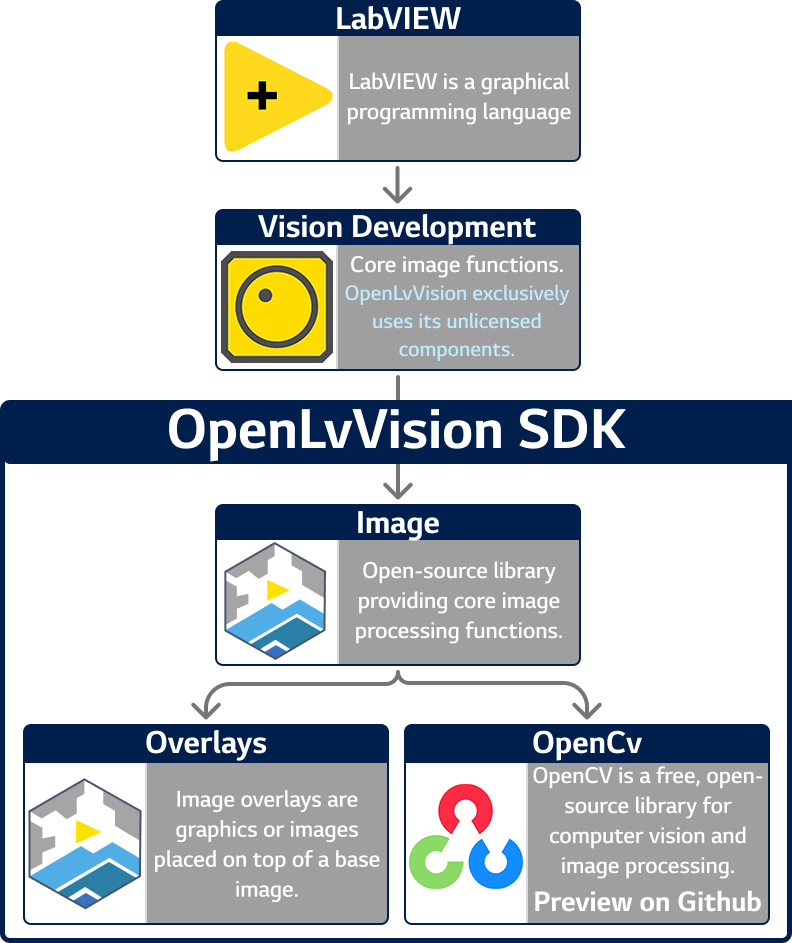
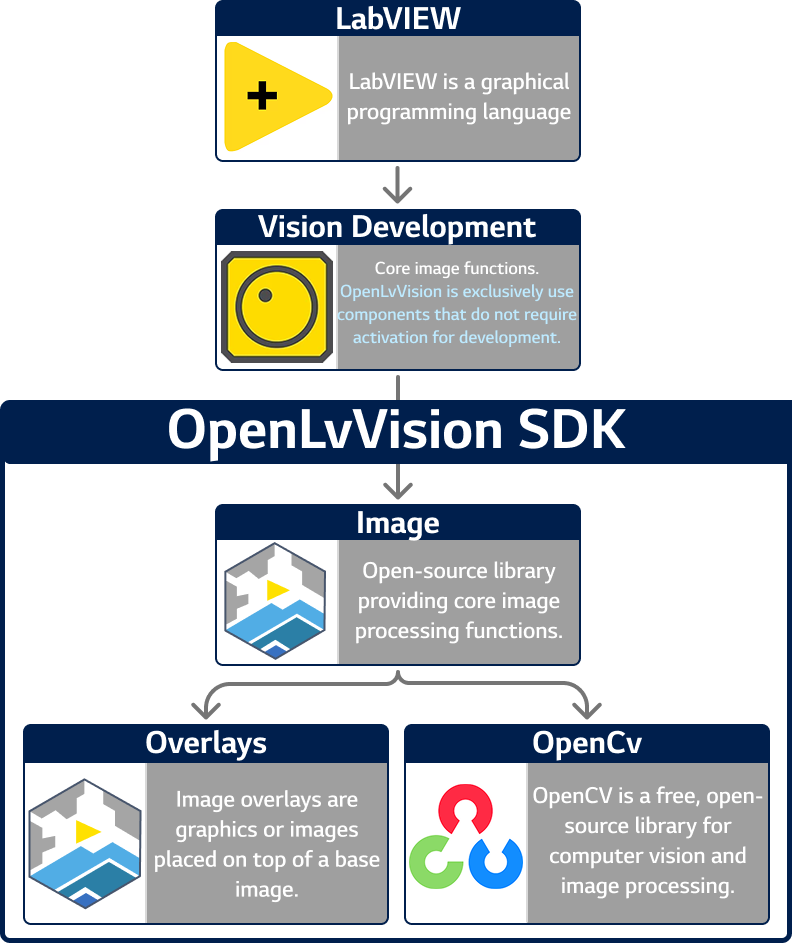
License Update

Changed region(s): [[0.6667, 0.7996, 0.9697, 0.9841], [0.4242, 0.2768, 0.7273, 0.3998]]

diff --git a/content/docs/Copyright/Copyright.md b/content/docs/Copyright/Copyright.md
@@ -10,10 +10,12 @@ icon: "copyright"
 
 This project and its documentation are provided under multiple open-source licenses:
 
-- **OpenLvVision** â€” Licensed under the [BSD3](https://github.com/OpenLvVision/OpenLvVision_Image/blob/main/LICENSE).
-- **OpenCV** â€” Licensed under the [Apache License 2.0](https://github.com/opencv/opencv/blob/4.11.0/LICENSE).    
-- **Hugo** â€” Licensed under the [Apache License 2.0](https://github.com/gohugoio/hugo/blob/master/LICENSE).  
+- **OpenLvVision**  Licensed under the [BSD3](https://github.com/OpenLvVision/OpenLvVision_Image/blob/main/LICENSE).
+- **OpenCV**  Licensed under the [Apache License 2.0](https://github.com/opencv/opencv/blob/4.11.0/LICENSE).    
+- **Hugo**  Licensed under the [Apache License 2.0](https://github.com/gohugoio/hugo/blob/master/LICENSE).
+- **OpenBLAS** Licensed under the [BSD3](https://github.com/OpenMathLib/OpenBLAS?tab=BSD-3-Clause-1-ov-file#readme).   
 - **Lotus Docs Theme** â€” Licensed under the [MIT License](https://github.com/colinwilson/lotusdocs/blob/release/LICENSE).
+
 
 Each component retains its own license and copyright terms.
 
@@ -22,7 +24,7 @@ Each component retains its own license and copyright terms.
 ```
 BSD 3-Clause License
 
-Copyright (c) 2025, Lukas Kamleitner
+Copyright (c) 2026, Lukas Kamleitner
 
 Redistribution and use in source and binary forms, with or without
 modification, are permitted provided that the following conditions are met:
@@ -464,6 +466,42 @@ OF THIS SOFTWARE, EVEN IF ADVISED OF THE POSSIBILITY OF SUCH DAMAGE.
    WITHOUT WARRANTIES OR CONDITIONS OF ANY KIND, either express or implied.
    See the License for the specific language governing permissions and
    limitations under the License.
+
+```
+---
+### OpenBLAS
+```
+
+Copyright (c) 2011-2014, The OpenBLAS Project
+All rights reserved.
+
+Redistribution and use in source and binary forms, with or without
+modification, are permitted provided that the following conditions are
+met:
+
+   1. Redistributions of source code must retain the above copyright
+      notice, this list of conditions and the following disclaimer.
+
+   2. Redistributions in binary form must reproduce the above copyright
+      notice, this list of conditions and the following disclaimer in
+      the documentation and/or other materials provided with the
+      distribution.
+   3. Neither the name of the OpenBLAS project nor the names of 
+      its contributors may be used to endorse or promote products 
+      derived from this software without specific prior written 
+      permission.
+
+THIS SOFTWARE IS PROVIDED BY THE COPYRIGHT HOLDERS AND CONTRIBUTORS "AS IS"
+AND ANY EXPRESS OR IMPLIED WARRANTIES, INCLUDING, BUT NOT LIMITED TO, THE
+IMPLIED WARRANTIES OF MERCHANTABILITY AND FITNESS FOR A PARTICULAR PURPOSE
+ARE DISCLAIMED. IN NO EVENT SHALL THE COPYRIGHT OWNER OR CONTRIBUTORS BE
+LIABLE FOR ANY DIRECT, INDIRECT, INCIDENTAL, SPECIAL, EXEMPLARY, OR CONSEQUENTIAL
+DAMAGES (INCLUDING, BUT NOT LIMITED TO, PROCUREMENT OF SUBSTITUTE GOODS OR
+SERVICES; LOSS OF USE, DATA, OR PROFITS; OR BUSINESS INTERRUPTION) HOWEVER
+CAUSED AND ON ANY THEORY OF LIABILITY, WHETHER IN CONTRACT, STRICT LIABILITY,
+OR TORT (INCLUDING NEGLIGENCE OR OTHERWISE) ARISING IN ANY WAY OUT OF THE
+USE OF THIS SOFTWARE, EVEN IF ADVISED OF THE POSSIBILITY OF SUCH DAMAGE.
+
 
 ```
 ---

diff --git a/content/docs/Installation/Vision Development.md b/content/docs/Installation/Vision Development.md
@@ -7,12 +7,8 @@ draft: false
 
 ## Licensing
 
-Internally the NI Vision Development Module is structured into multiple libraries. \
-OpenLvVision utilizes the core library (`nivissvc.dll`) for fundamental LabVIEW image data type management, and this does **not** require a license. \
-In contrast, advanced image processing functions reside within separate, licensed DLLs (like `nivision.dll`). \
-OpenLvVision's goal is to offer free, open-source alternatives to these licensed advanced functions.
-
-{{< alert context="success" text= "Core image handling functions for Ni-Vision-Development is license-free, will be used by OpenLvVision"/>}} 
+OpenLvVision currently interacts with the core library (nivissvc.dll) to manage fundamental LabVIEW image data types. \
+While our testing indicates that this specific usage does not technically trigger a software activation prompt, users must be aware that these files remain the intellectual property of NI.
 
 ## Installation
 
